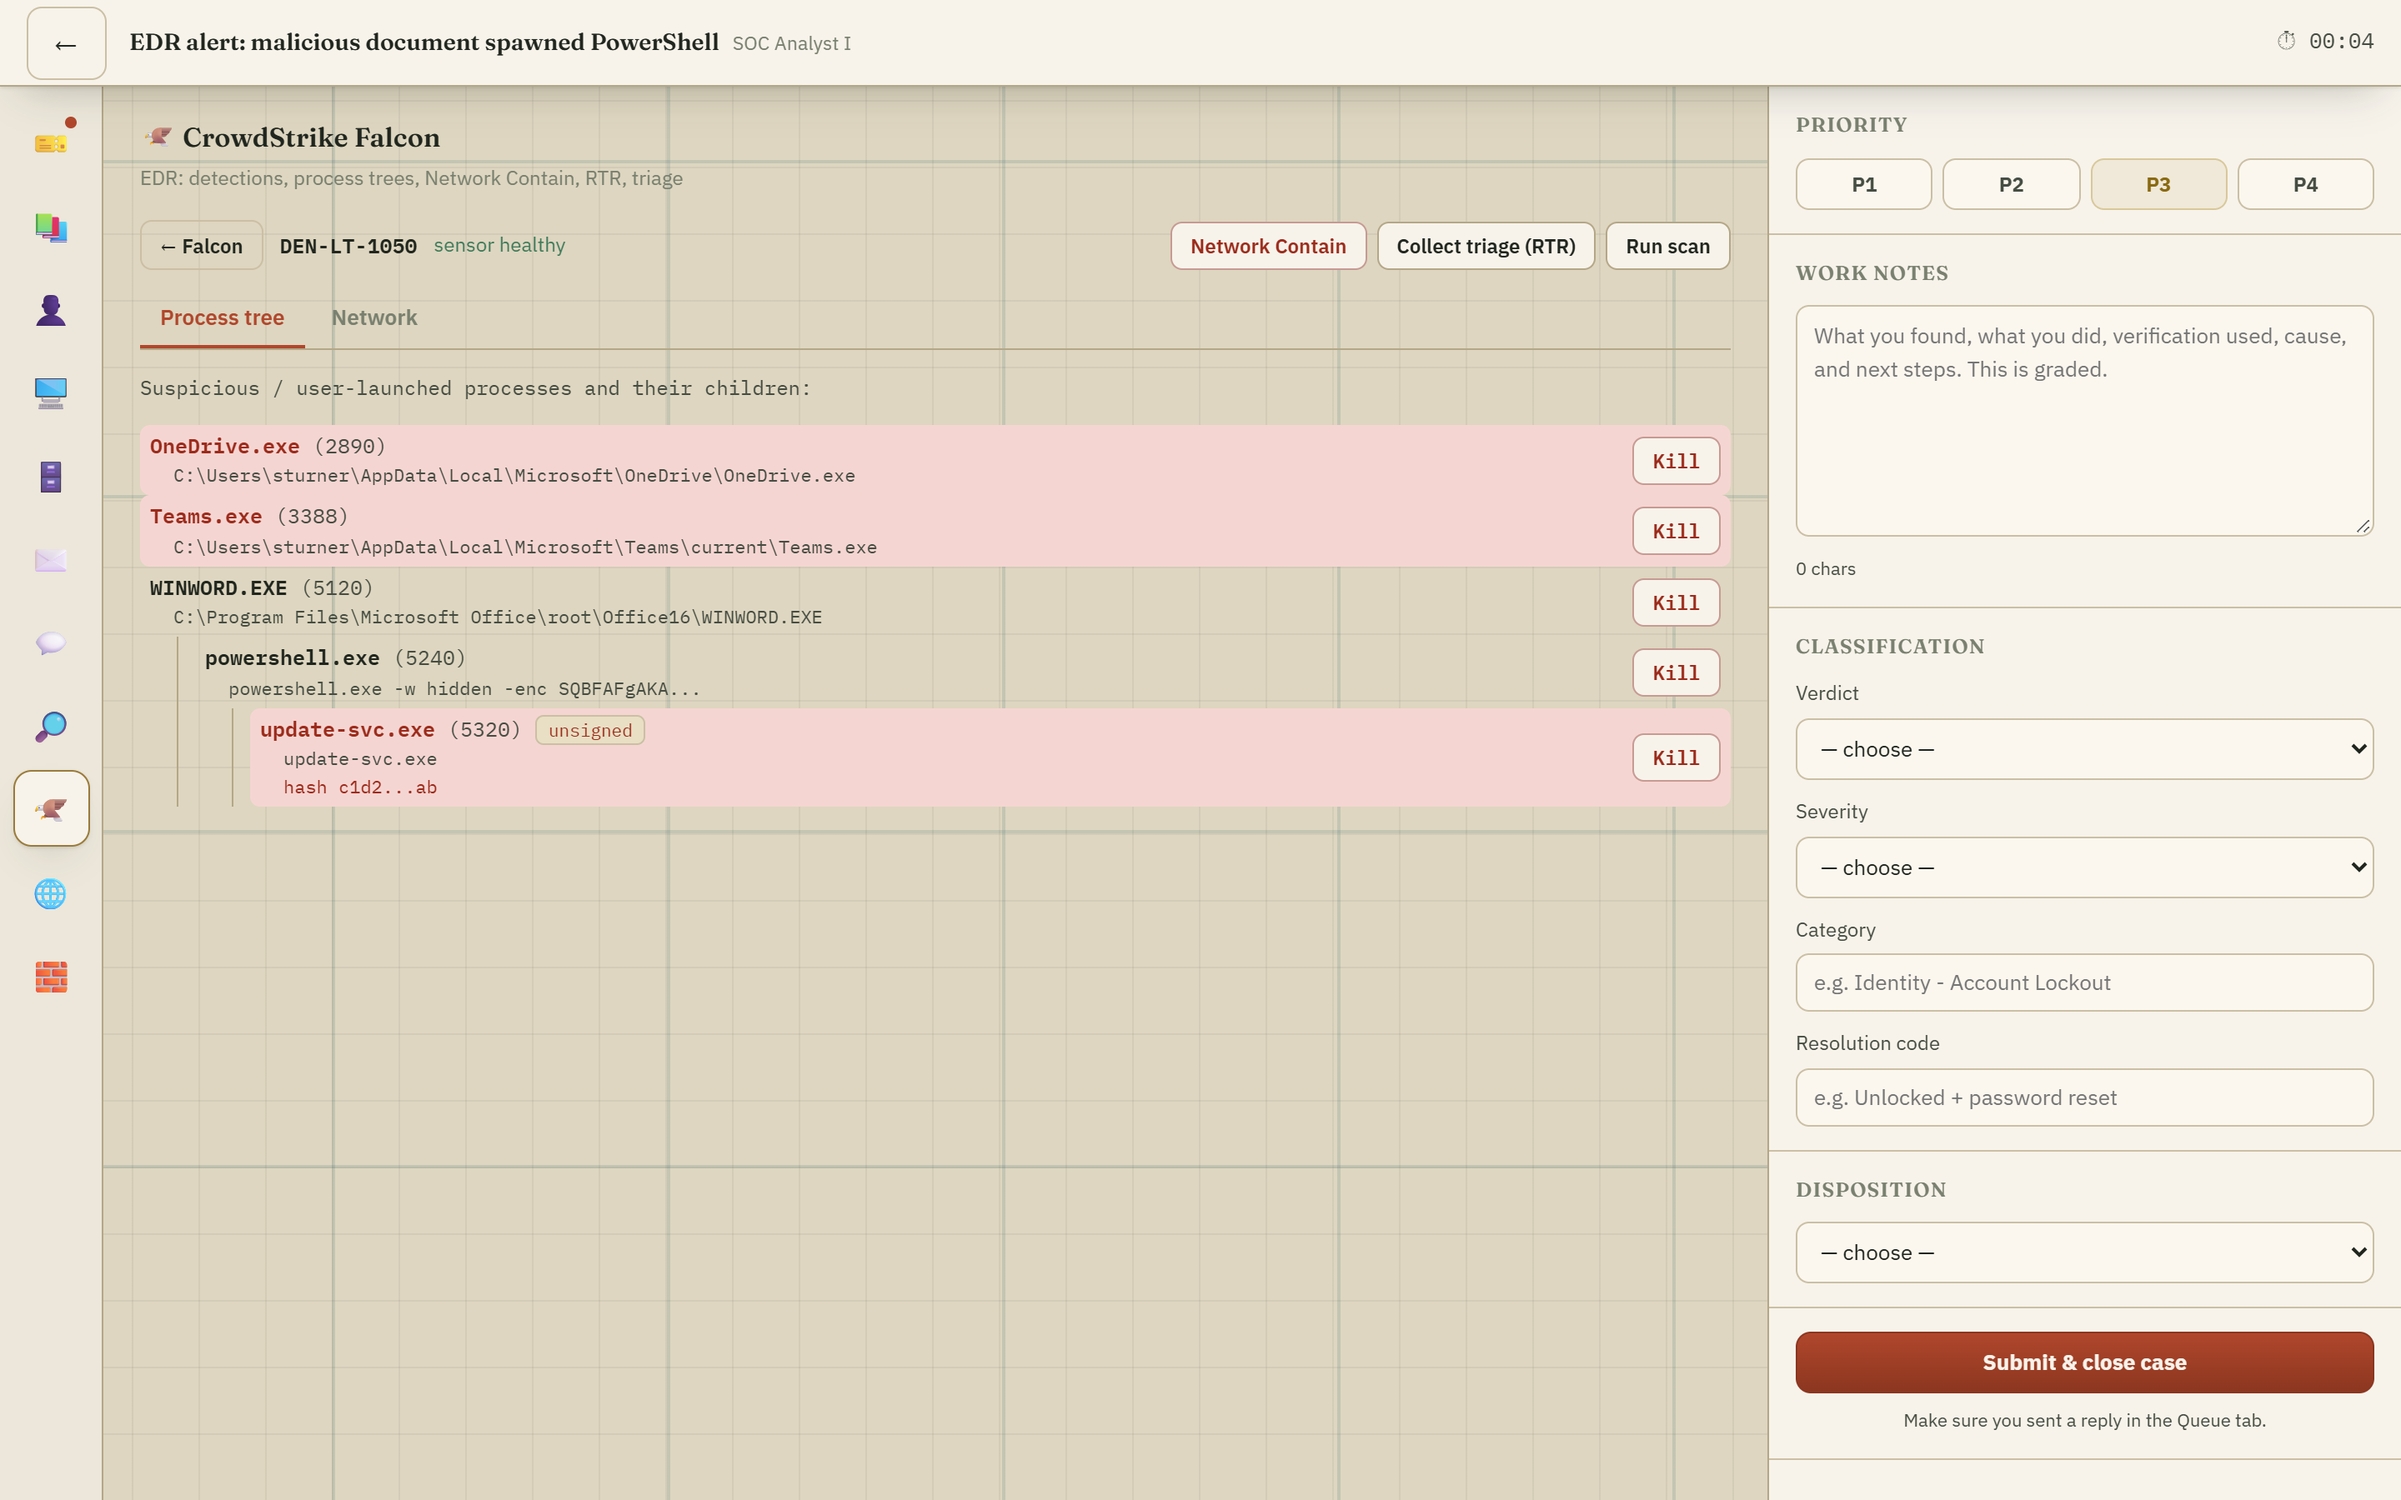
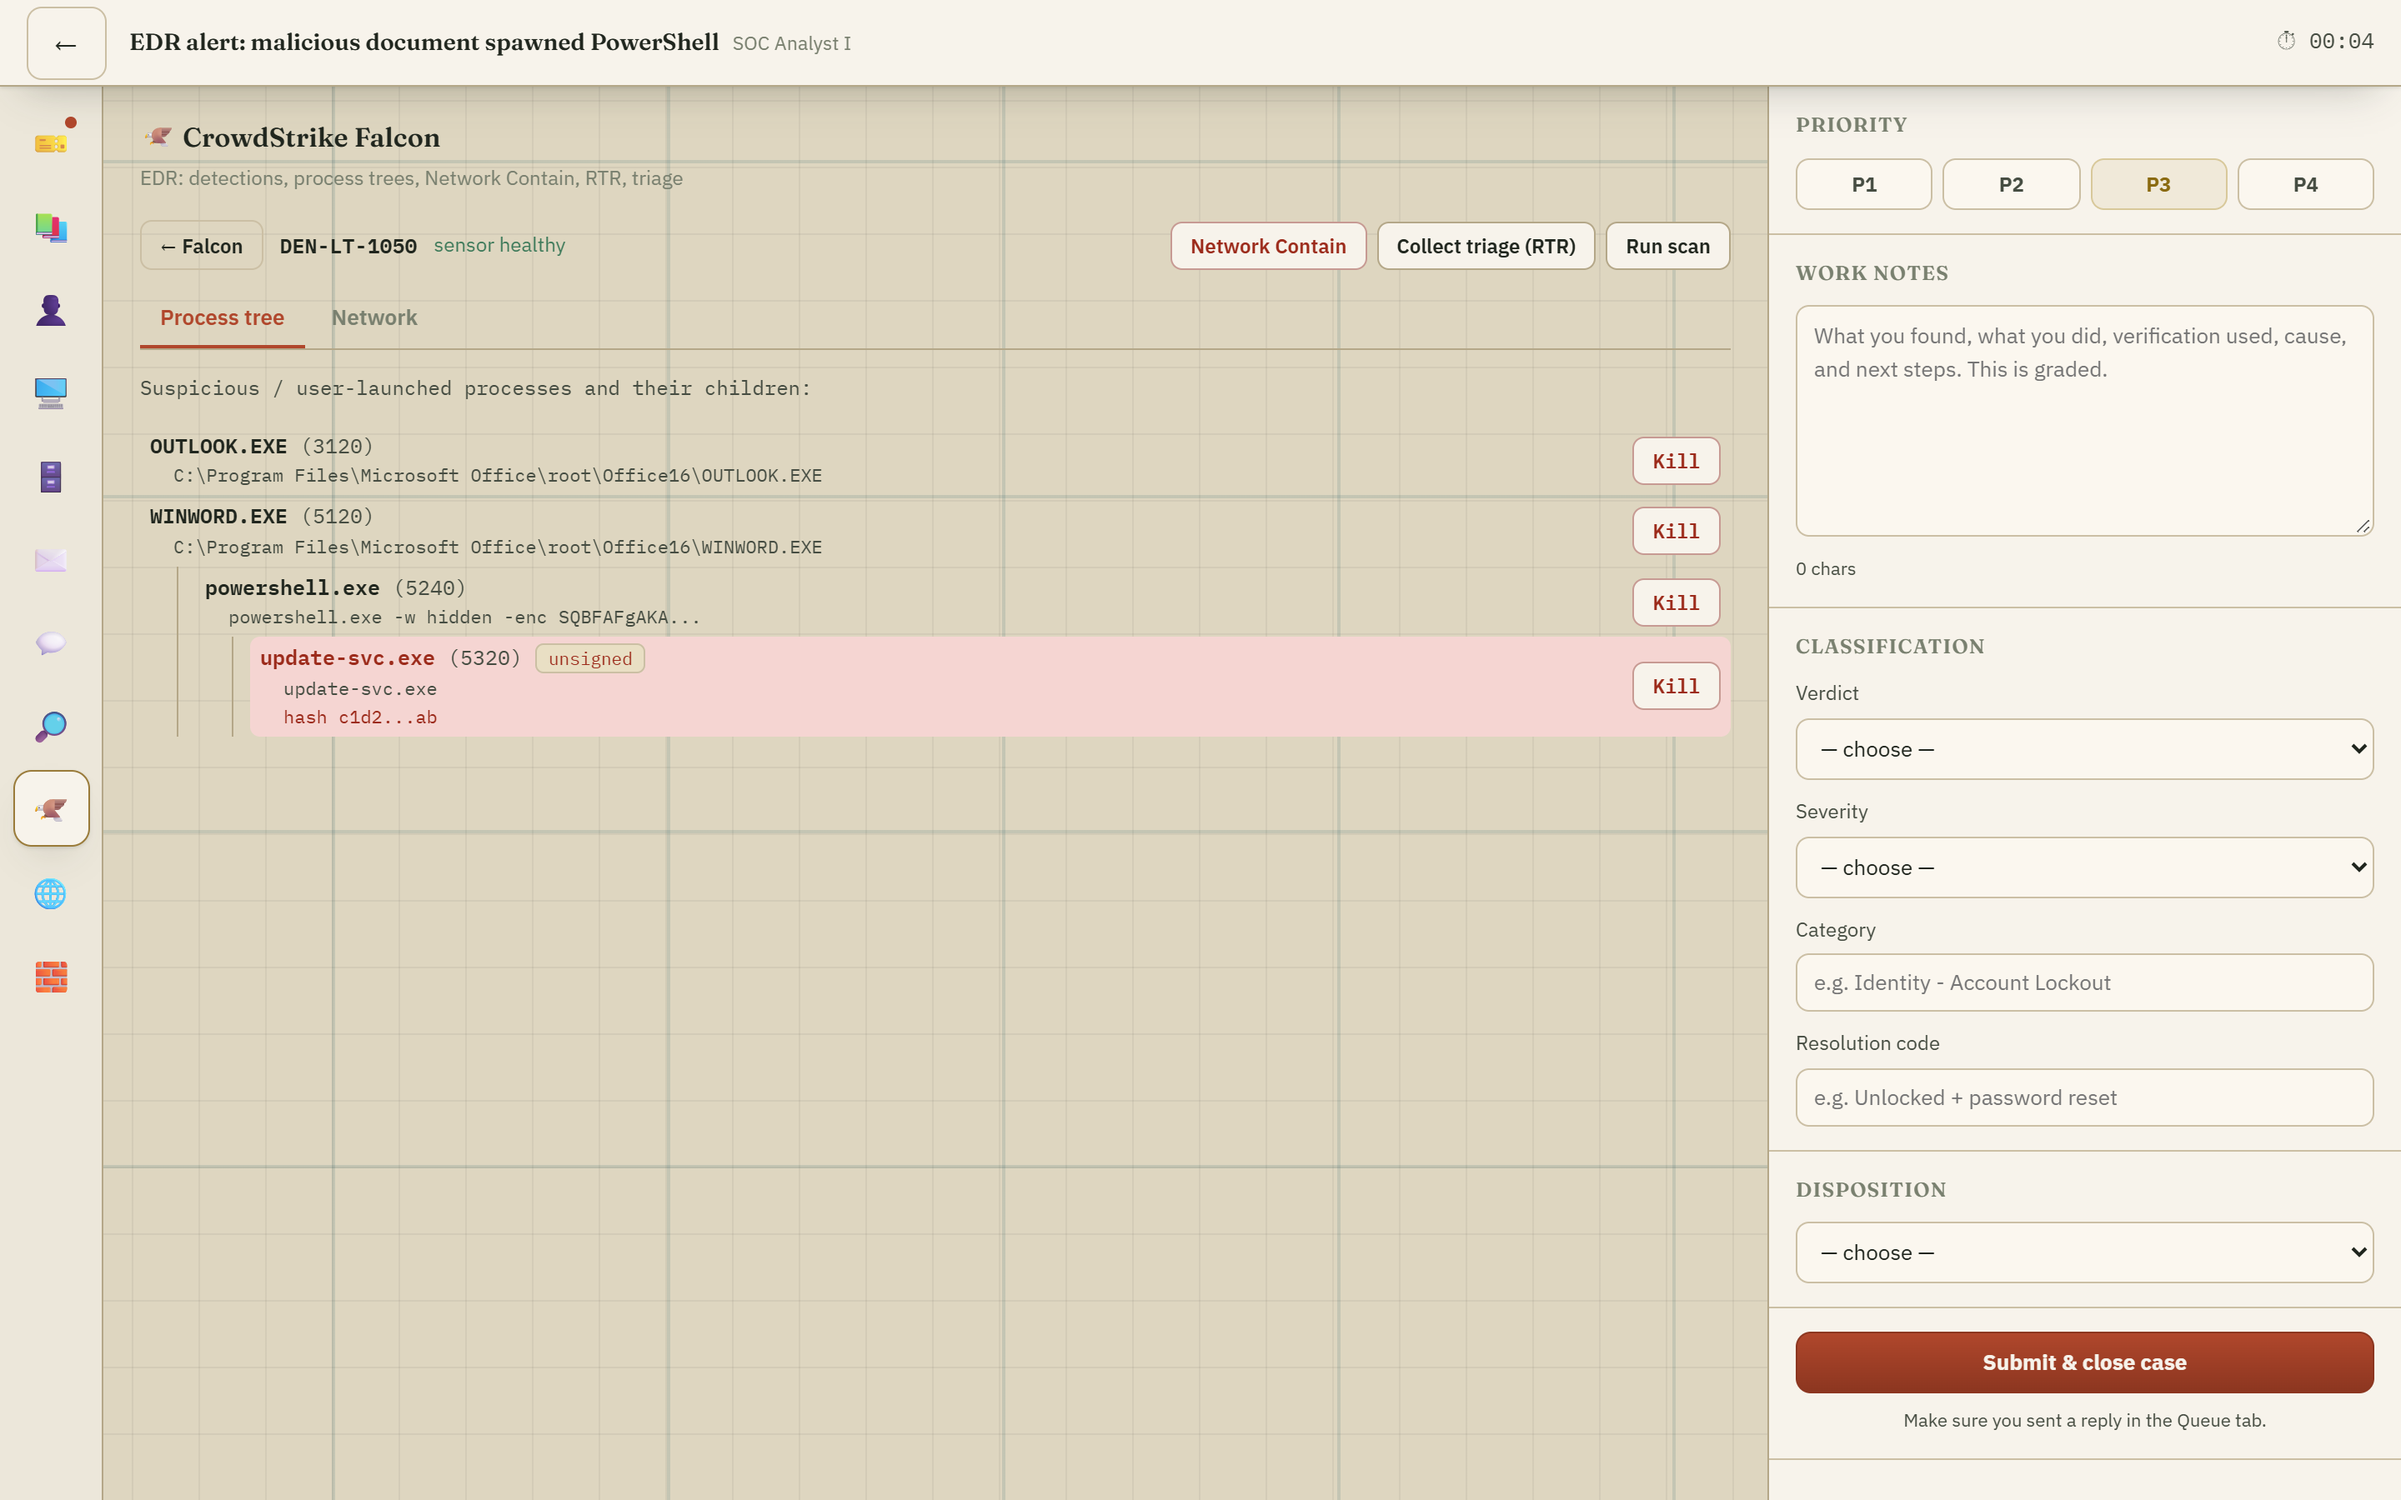
Refine Falcon/Task Manager suspicious-process heuristic
Stop flagging every AppData path: OneDrive, Teams and other legitimate per-user
apps run from AppData\Local. Now a process is highlighted only when unsigned or
running from a genuinely user-writable exec location (AppData\Roaming, Temp,
Public); Office/LOLBins still anchor the tree so initial-access chains stay
visible. Logic centralized in src/ui/procHeuristics.ts and reused by the EDR
tree and Task Manager. Screenshots regenerated.

Changed region(s): [[0.0625, 0.28, 0.7188, 0.5289], [0.6562, 0.4044, 0.7188, 0.5289]]

diff --git a/src/ui/tools/Edr.tsx b/src/ui/tools/Edr.tsx
@@ -3,6 +3,7 @@ import { useSession, usePersisted } from '../../engine/session';
 import { fmt } from '../../engine/world';
 import type { Host, Proc } from '../../engine/types';
 import { useToast } from '../common';
+import { suspiciousProc, interestingProc } from '../procHeuristics';
 
 export function Edr() {
   const { world, act } = useSession();
@@ -88,13 +89,13 @@ function ProcTree({ host, onView, onKill }: { host: Host; onView: () => void; on
     byParent.get(k)!.push(p);
   }
   const roots = host.processes.filter((p) => !p.parentPid || !host.processes.some((x) => x.pid === p.parentPid));
-  // Only show interesting roots: user apps and anything suspicious, to keep the tree readable
-  const interesting = (p: Proc): boolean => p.signed === false || /winword|excel|powershell|cmd|wscript|cscript|update-svc|lock\.exe|rundll|mshta/i.test(p.name) || (p.path ?? '').match(/\\(AppData|Temp|Public)\\/i) != null;
+  // Only show interesting roots: LOLBins/Office anchors and anything suspicious, to keep the tree readable
+  const interesting = interestingProc;
   const anyInteresting = host.processes.some(interesting);
 
   function render(p: Proc, depth: number): React.ReactNode {
     const kids = byParent.get(p.pid) ?? [];
-    const susp = p.signed === false || (p.path ?? '').match(/\\(AppData|Temp|Public|Windows\\Temp)\\/i);
+    const susp = suspiciousProc(p);
     return (
       <div key={p.pid}>
         <div className={`node ${susp ? 'susp' : ''} between`} style={{ paddingRight: 6 }}>

diff --git a/src/ui/procHeuristics.ts b/src/ui/procHeuristics.ts
@@ -1,0 +1,22 @@
+import type { Proc } from '../engine/types';
+
+// Locations where a *running executable* is a genuine red flag. Note this
+// deliberately excludes AppData\Local\... — OneDrive, Teams, Chrome and other
+// legitimate per-user apps install and run from there, so flagging it produces
+// constant false positives. Roaming, Temp and Public are the ones that matter.
+export const USER_WRITABLE_EXEC = /\\(AppData\\Roaming|Temp|Public)\\/i;
+
+// Living-off-the-land binaries and Office apps: not suspicious by themselves,
+// but the parents/children worth surfacing so an initial-access chain is visible.
+export const LOLBIN_OR_OFFICE = /winword|excel|powerpnt|outlook|powershell|pwsh|cmd\.exe|wscript|cscript|mshta|rundll32|regsvr32|certutil|bitsadmin/i;
+
+/** True when a process should be highlighted as suspicious. */
+export function suspiciousProc(p: Proc): boolean {
+  return p.signed === false || (!!p.path && USER_WRITABLE_EXEC.test(p.path));
+}
+
+/** True when a process is worth showing as a tree root (suspicious, or a
+ *  LOLBin/Office process that may anchor a chain). */
+export function interestingProc(p: Proc): boolean {
+  return suspiciousProc(p) || LOLBIN_OR_OFFICE.test(p.name);
+}

diff --git a/src/ui/tools/RemoteDesktop.tsx b/src/ui/tools/RemoteDesktop.tsx
@@ -4,6 +4,7 @@ import { fmt } from '../../engine/world';
 import type { Host } from '../../engine/types';
 import { runCommand } from '../../engine/terminal';
 import { useToast } from '../common';
+import { suspiciousProc } from '../procHeuristics';
 
 type RTab = 'tasks' | 'services' | 'events' | 'devices' | 'network' | 'sched' | 'programs' | 'ext' | 'files' | 'terminal';
 
@@ -81,7 +82,7 @@ function useHostAct(hostId: string) {
 function TaskManager({ host, onView, onKill }: { host: Host; onView: () => void; onKill: (name: string, pid: number) => void }) {
   useEffect(onView, [host.id]);
   const sorted = [...host.processes].sort((a, b) => b.cpu - a.cpu);
-  const susp = (p: Host['processes'][number]) => p.signed === false || (p.path ?? '').match(/\\(AppData|Temp|Public|Windows\\Temp)\\/i);
+  const susp = (p: Host['processes'][number]) => suspiciousProc(p);
   return (
     <table className="data">
       <thead><tr><th>Name</th><th>PID</th><th>User</th><th>CPU%</th><th>Mem MB</th><th>Path / command line</th><th></th></tr></thead>
